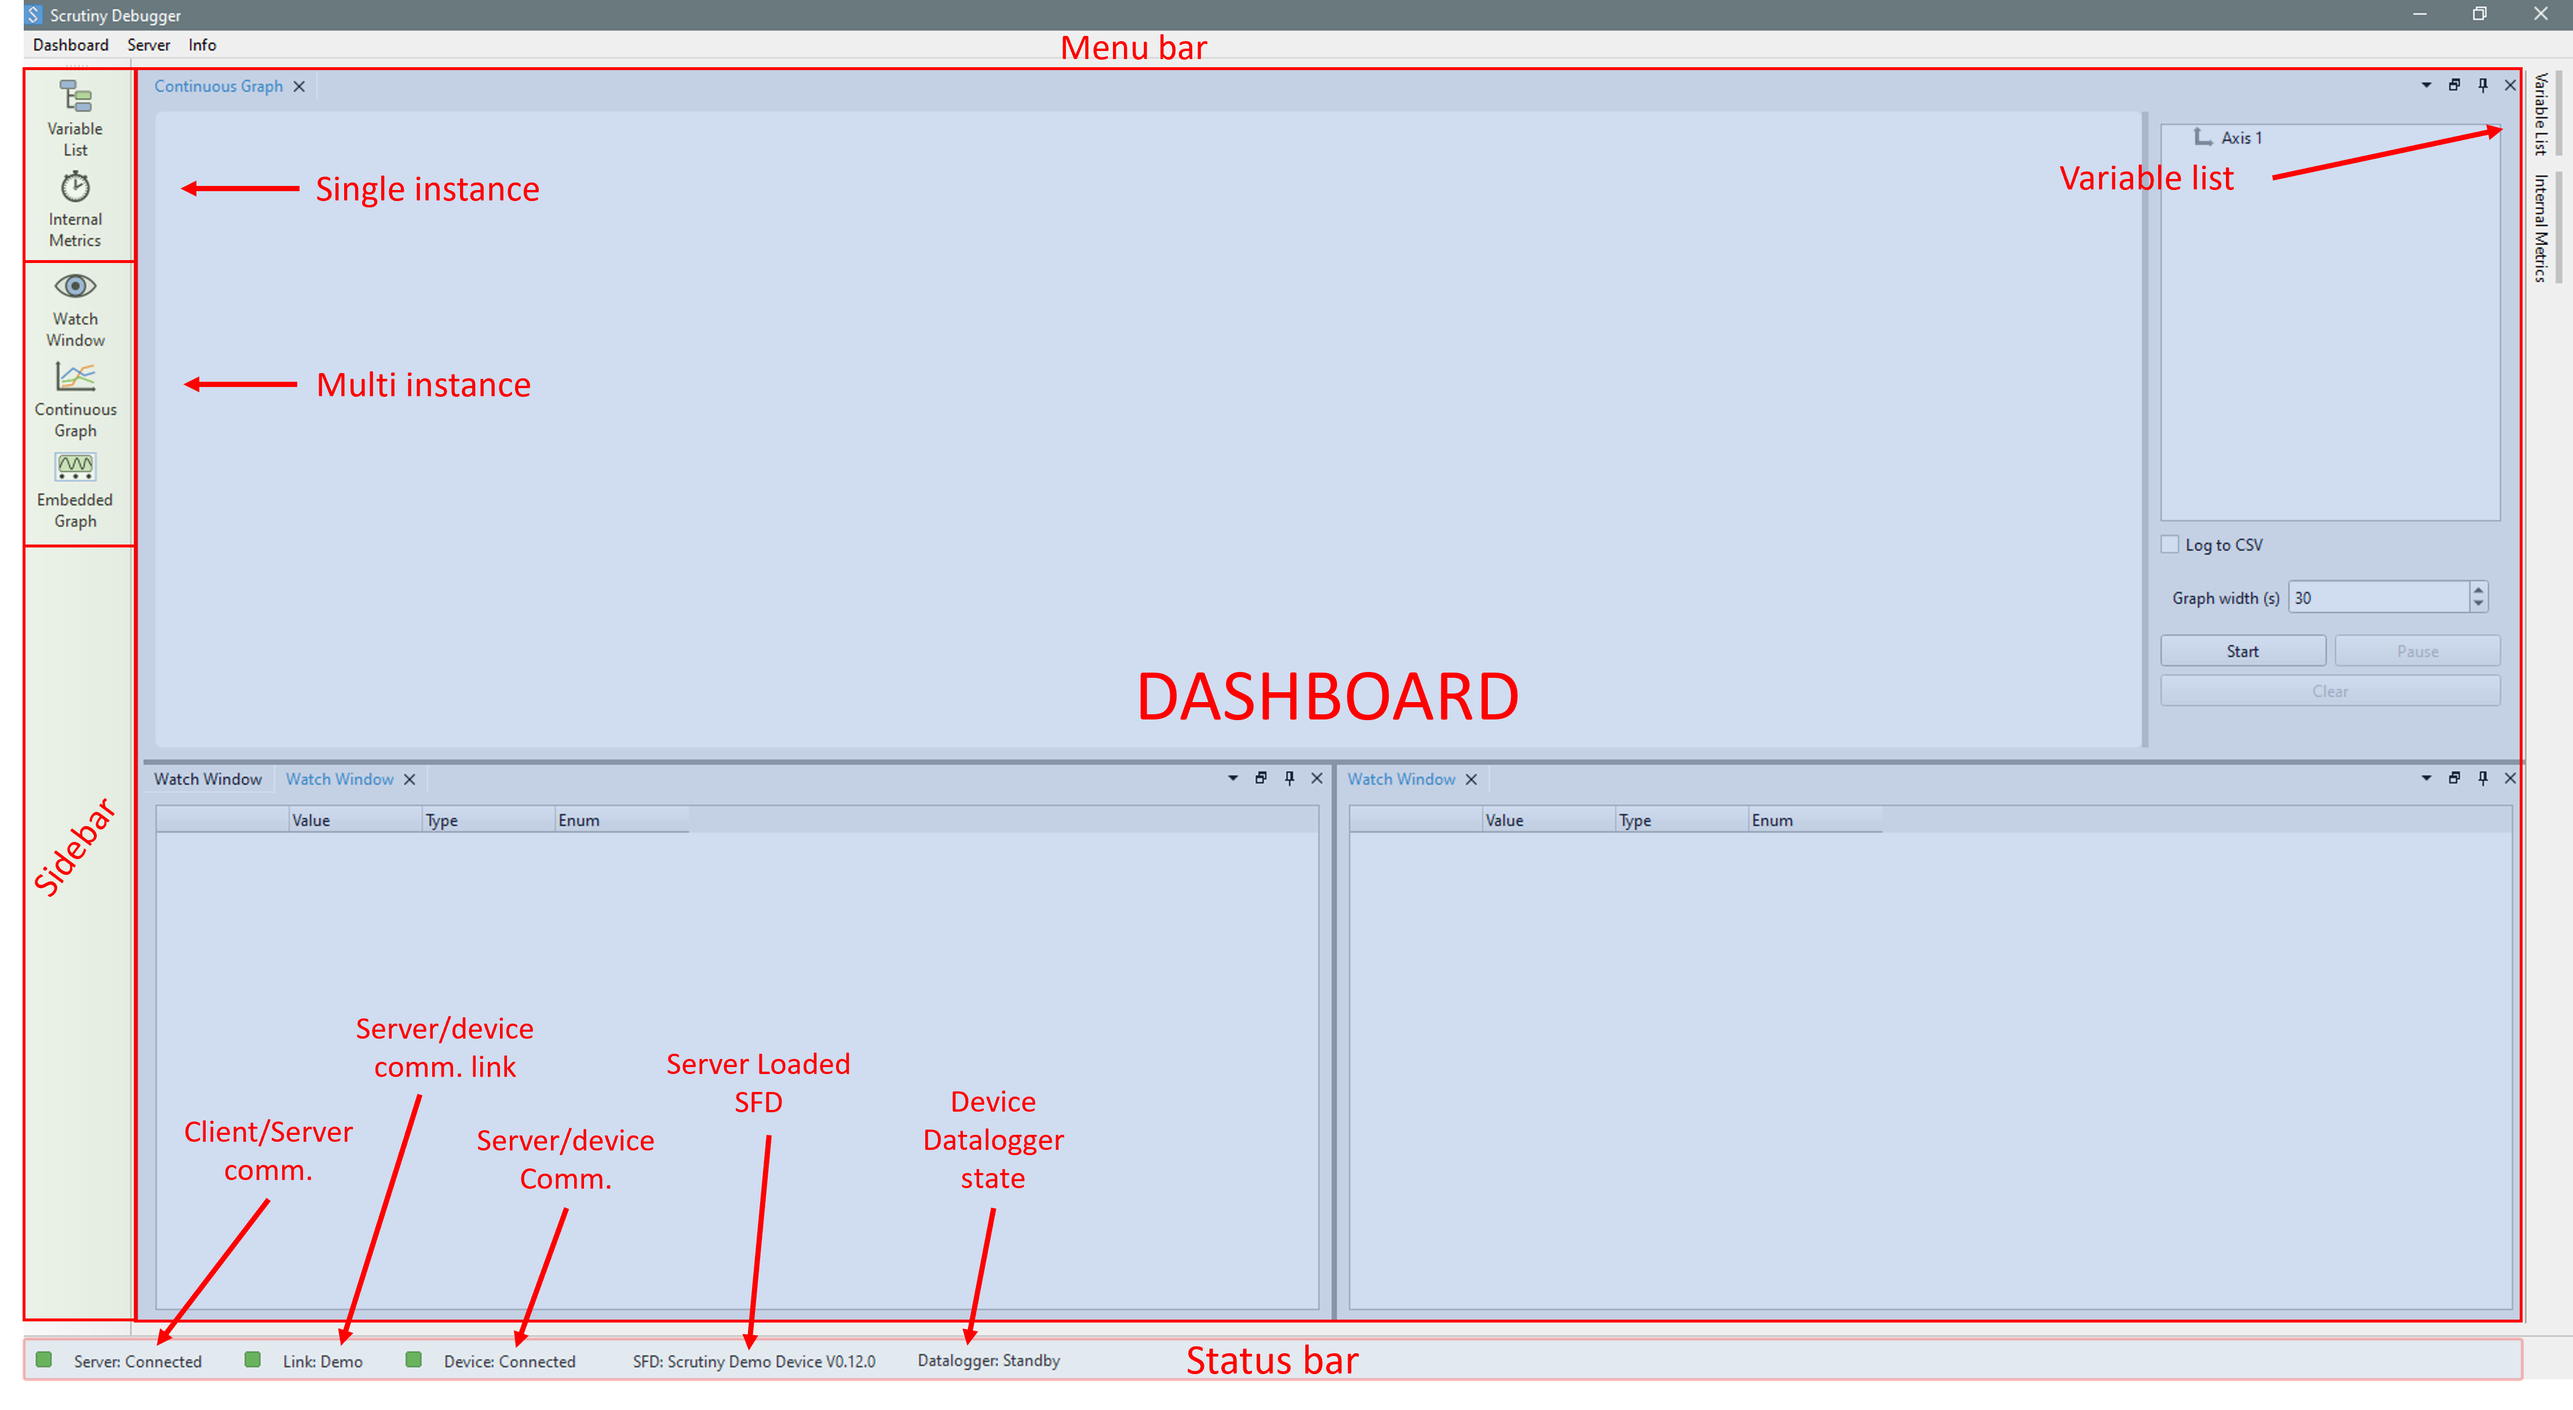
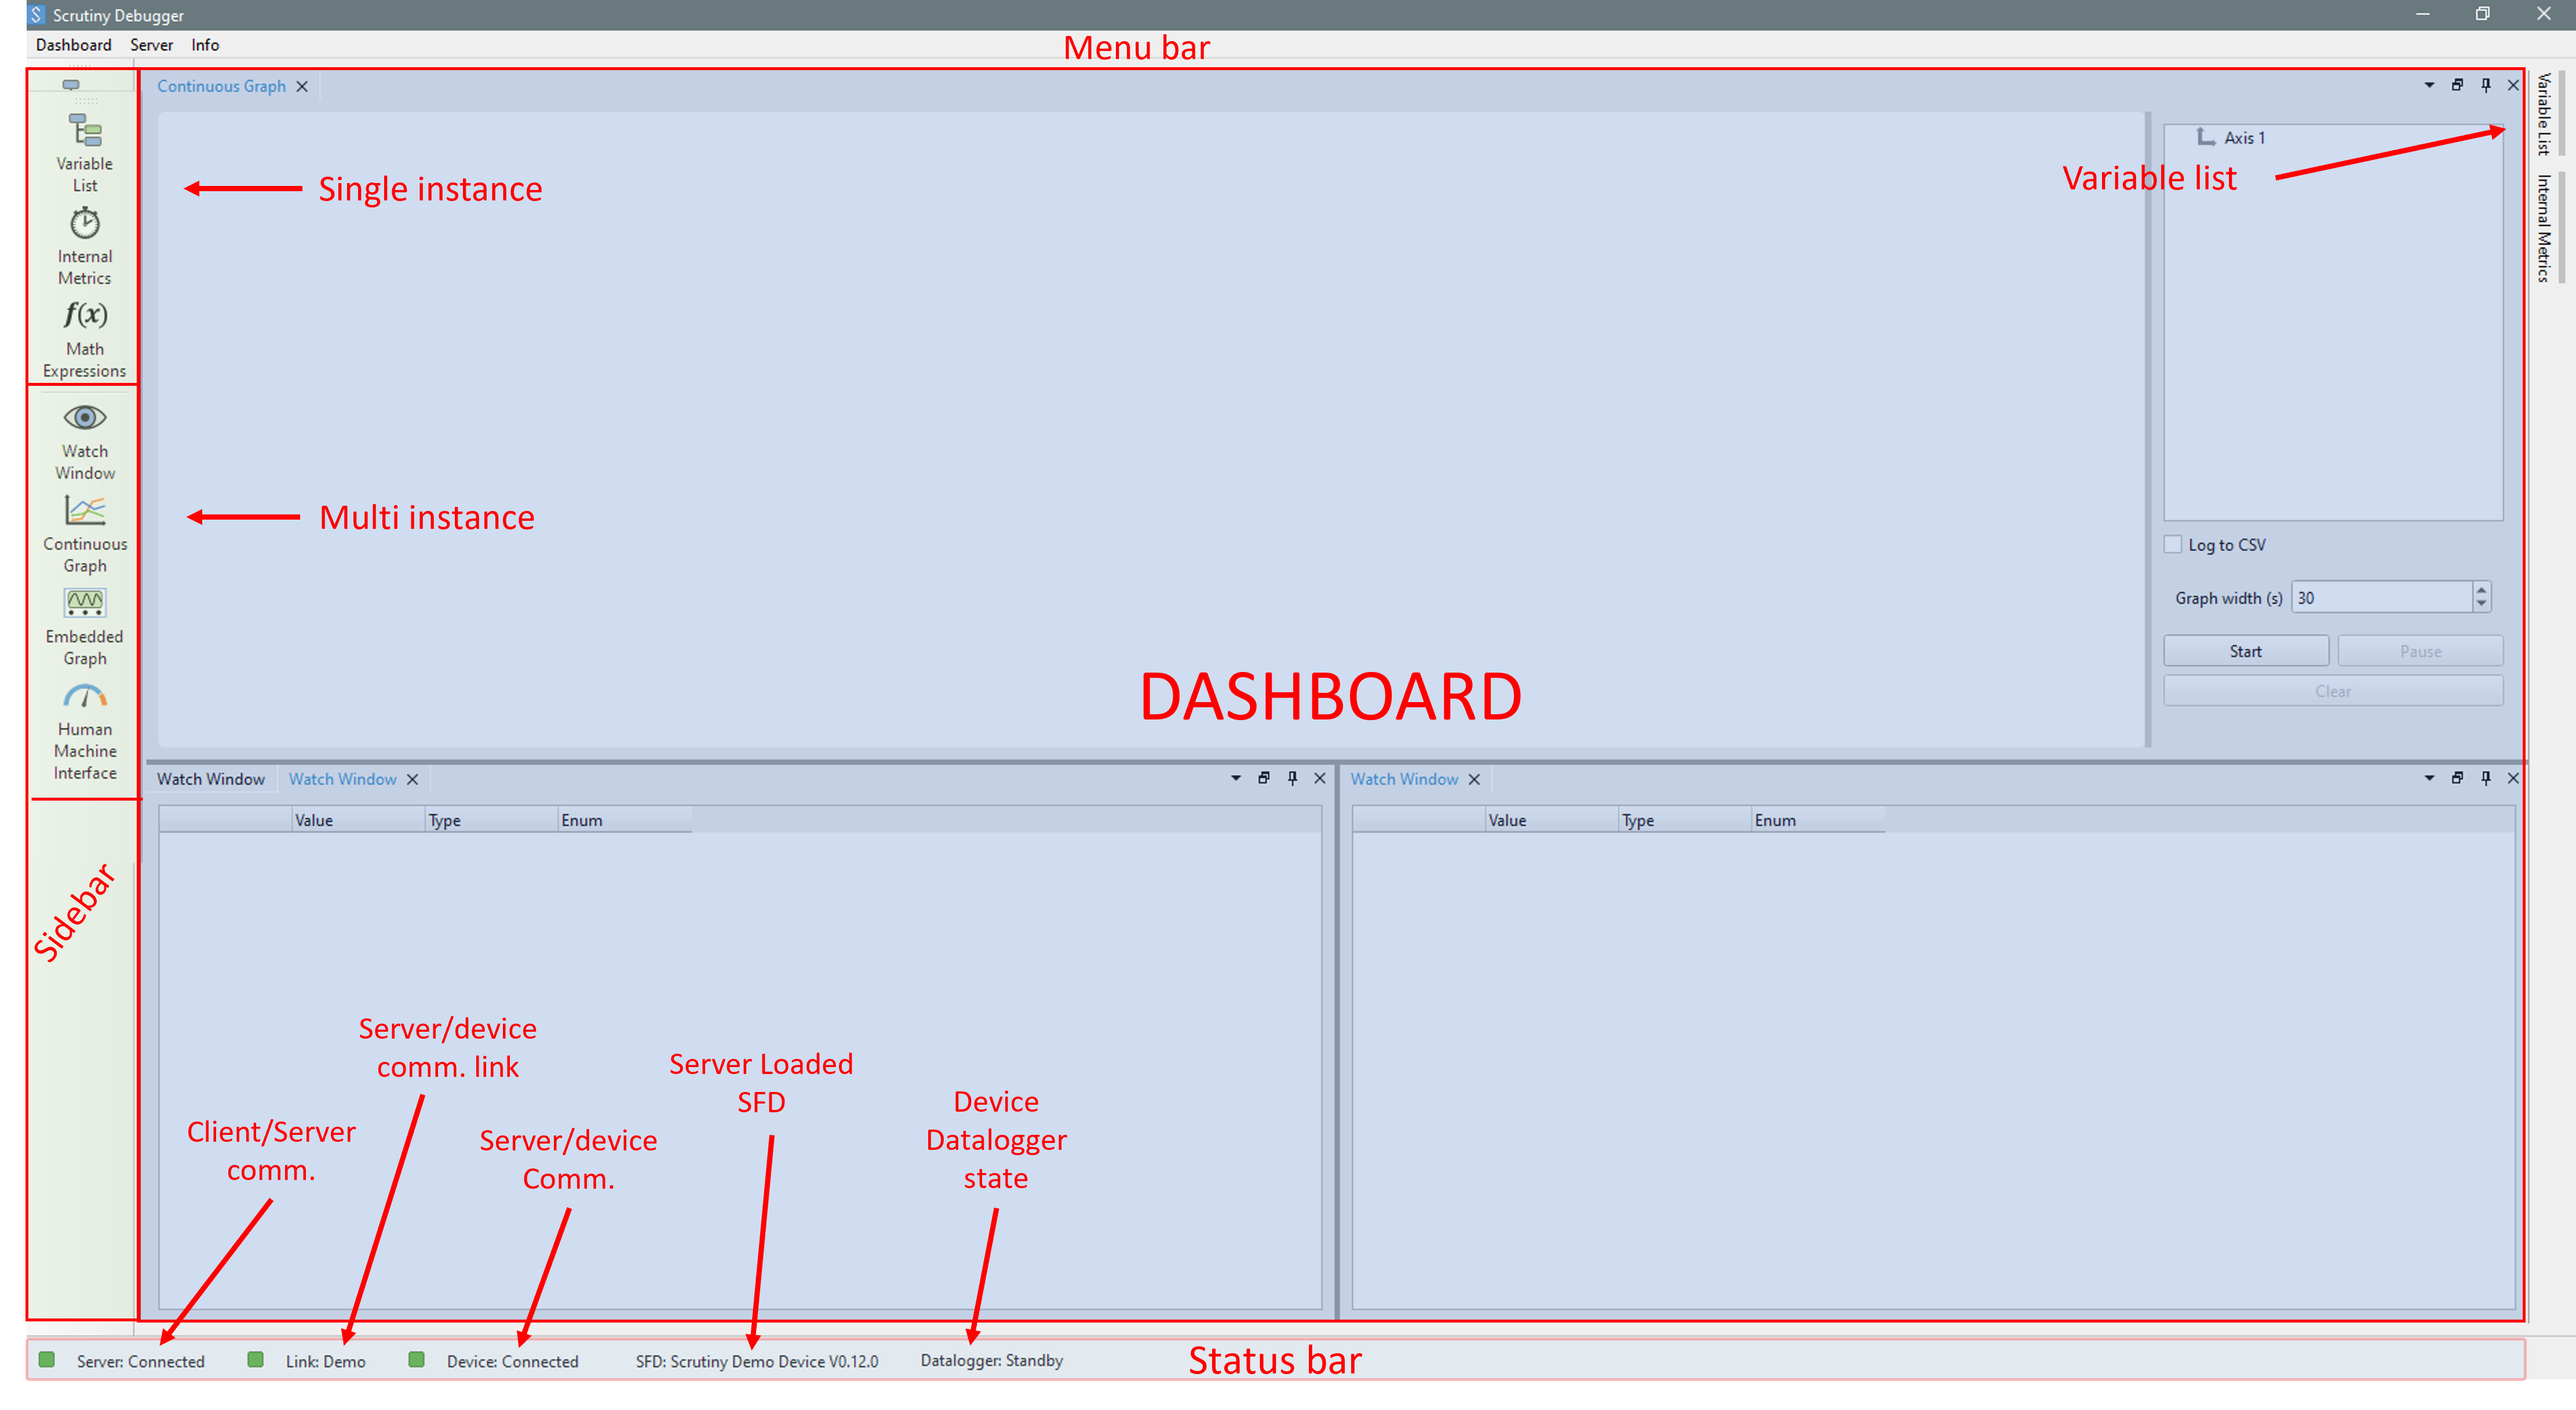
User guide : Document math expressions (#460)

diff --git a/docs/user_guide/source/gui.rst b/docs/user_guide/source/gui.rst
@@ -138,7 +138,7 @@ When an SFD is loaded, the project name (taken from the SFD metadata) is display
 Clicking the label opens a dialog that displays the SFD metadata.
 
 .. figure:: _static/ui/sfd_details_dialog.png
-    :height: 6cm
+    :height: 8cm
 
     Loaded SFD metadata dialog
 
@@ -158,6 +158,9 @@ There are two types of dashboard components: those that allow only a single inst
    :width: 32px
 
 .. |VarListIcon| image:: _static/ui/icons/varlist.png
+   :width: 32px
+
+.. |MathBuilderIcon| image:: _static/ui/icons/math_builder.png
    :width: 32px
 
 .. |ContinuousGraphIcon| image:: _static/ui/icons/continuous-graph.png
@@ -181,12 +184,47 @@ There are two types of dashboard components: those that allow only a single inst
     "Icon",                 "Component Name",          "Instance", "Description"
     "|VarListIcon|",        "Variable List",            "Single",   "Displays the available watchable elements (Variables, Aliases, :ref:`RPVs<glossary>`)."
     "|InternalMetricIcon|", "Internal Metrics",         "Single",   "Displays statistics about current Scrutiny performances, including polling data rates."
+    "|MathBuilderIcon|",    "Math Expressions",         "Single",   "Defines and edit mathematical expressions that depends on other watchables."
     "|WatchIcon|",          "Watch Window",             "Multiple", "Displays the real-time values of watchable elements dropped into it via drag & drop. The layout can be reorganized as needed."
     "|ContinuousGraphIcon|", "Continuous Graph",        "Multiple", "Creates a graph of the real-time values of the selected watchable elements. The sampling rate is configurable, and the acquisition length is unlimited."
     "|EmbeddedGraphIcon|",  "Embedded Graph",           "Multiple", "Configures and displays graphs obtained through the datalogging feature. The sampling rate depends on the device and is typically stable. The acquisition length depends on the size of the datalogging buffer."
     "|HMIIcon|",            "Human Machine Interface",  "Multiple", "Creates a customizable dashboard with user defined widgets tied to watchables. This dashboard can serve as Human Machine Interface with buttons, sliders, gauges, etc."
 
 
+The watchables
+##############
+
+The server exposes the content of a firmware through watchable elements. The Scrutiny GUI presents them as drag-and-droppable items, each identified by an icon, as shown in the table below.
+
+.. |VariableWatchable| image:: _static/ui/icons/var.png
+   :width: 32px
+
+.. |AliasWatchable| image:: _static/ui/icons/alias.png
+   :width: 32px
+
+.. |RPVWatchable| image:: _static/ui/icons/rpv.png
+   :width: 32px
+
+.. |MathWatchable| image:: _static/ui/icons/math.png
+   :width: 32px
+
+.. tabularcolumns:: >{\centering}m{0.05\linewidth}  m{0.075\linewidth} m{0.075\linewidth} m{0.8\linewidth}
+
+.. csv-table:: Available Watchables
+    :header-rows: 1
+
+    "Icon", 	            "Type",     "Source", 	"Description"
+    "|VariableWatchable|", 	"Variable", "Server", 	"Variables discovered in the firmware binary by the Scrutiny toolchain using the compiler debug symbols."
+    "|RPVWatchable|", 	    "RPV",      "Server",   "Runtime Published Values. Readable and writable elements defined by the embedded firmware and identified by a 16-bit ID. They are published during the handshake phase with the server, and reading or writing them triggers a user-defined callback.
+    RPVs are available even when no SFD matching the firmware is installed on the server, since they are declared by the device upon connection."
+    "|AliasWatchable|",     "Alias",    "Server",   "An abstract watchable that points to a variable or an RPV. Aliases are useful for maintaining a consistent interface across different versions of the same firmware when a user (human or script) expects a variable to exist at a fixed path.
+    They are particularly useful for automated testing."
+    "|MathWatchable|",      "Math",     "GUI",      "A watchable defined entirely in the GUI; the server has no knowledge of it. Its value is computed from a mathematical expression that can reference other watchables.
+    See the :ref:`Math Expression Editor<math_builder>`."
+
+
+
+.. include:: _gui/gui_math_builder_component.rst.txt
 
 .. include:: _gui/gui_watch_component.rst.txt
 
